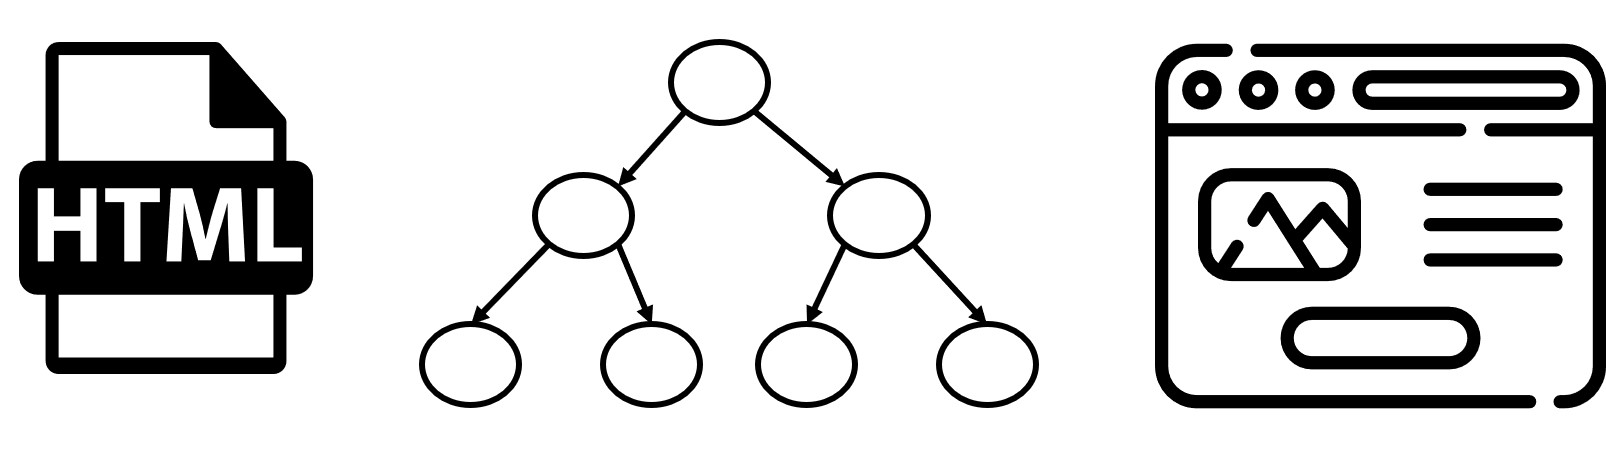
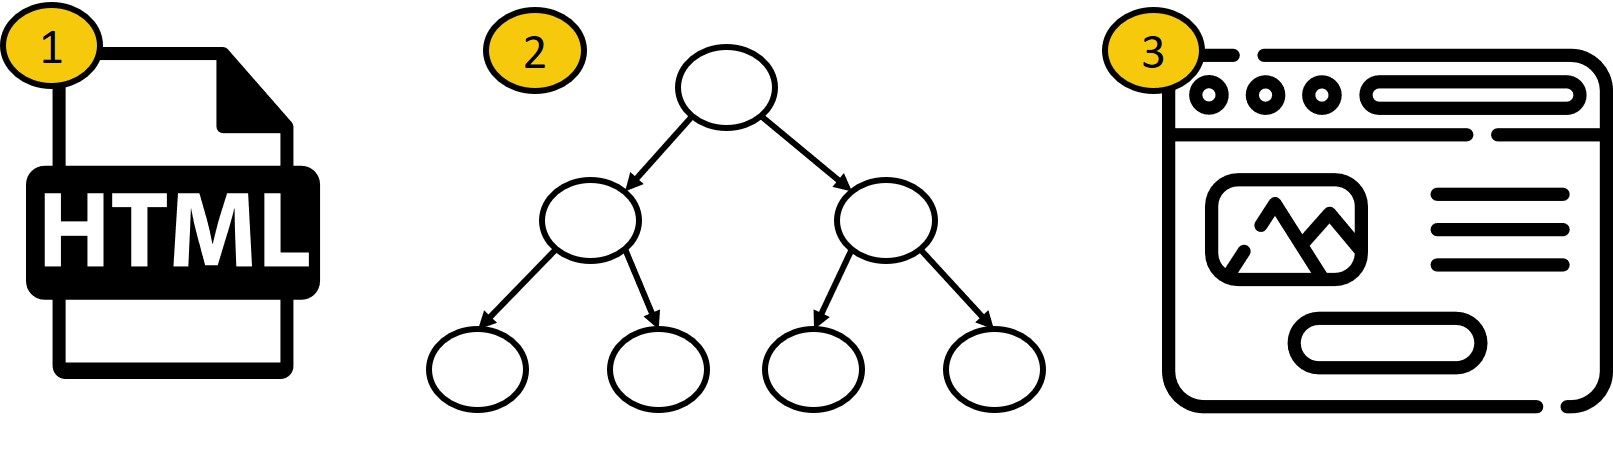
feat: replace image with one that is numbered. edit contents to make clearer meaning. add color for number in ordered list

diff --git a/src/pages/DomPage.tsx b/src/pages/DomPage.tsx
@@ -20,14 +20,20 @@ function DomPage() {
 
       <Switch>
         <Route path="/dom" exact>
-          <div className="dom-image-container">
-            <img src={domConcept} alt="dom concept" className="dom-image" />
-          </div>
           <ul>
             <li>Document object model</li>
             <li>A representation of a webpage</li>
-            <li>Each node in the tree represent an HTML element</li>
           </ul>
+          <br />
+          <div className="dom-image-container">
+            <img src={domConcept} alt="dom concept" className="dom-image" />
+          </div>
+          <br />
+          <ol>
+            <li>Browser receive the HTML file</li>
+            <li>Parse and generate a tree-like data structure (DOM)</li>
+            <li>Base on the tree data structure to paint the contents</li>
+          </ol>
         </Route>
         <Route path="/dom/example" exact>
           <div className="dom-image-container">

diff --git a/src/pages/DomPage.css b/src/pages/DomPage.css
@@ -19,3 +19,22 @@
   margin-right: 30px;
   margin-bottom: 30px;
 }
+
+ol {
+  list-style: none;
+  counter-reset: li;
+}
+
+ol > li::before {
+  content: counter(li);
+  color: black;
+  display: inline-block;
+  width: 1em;
+  margin-left: -1em;
+  font-weight: bold;
+  background-color: #f6c90c;
+}
+
+ol > li {
+  counter-increment: li;
+}
